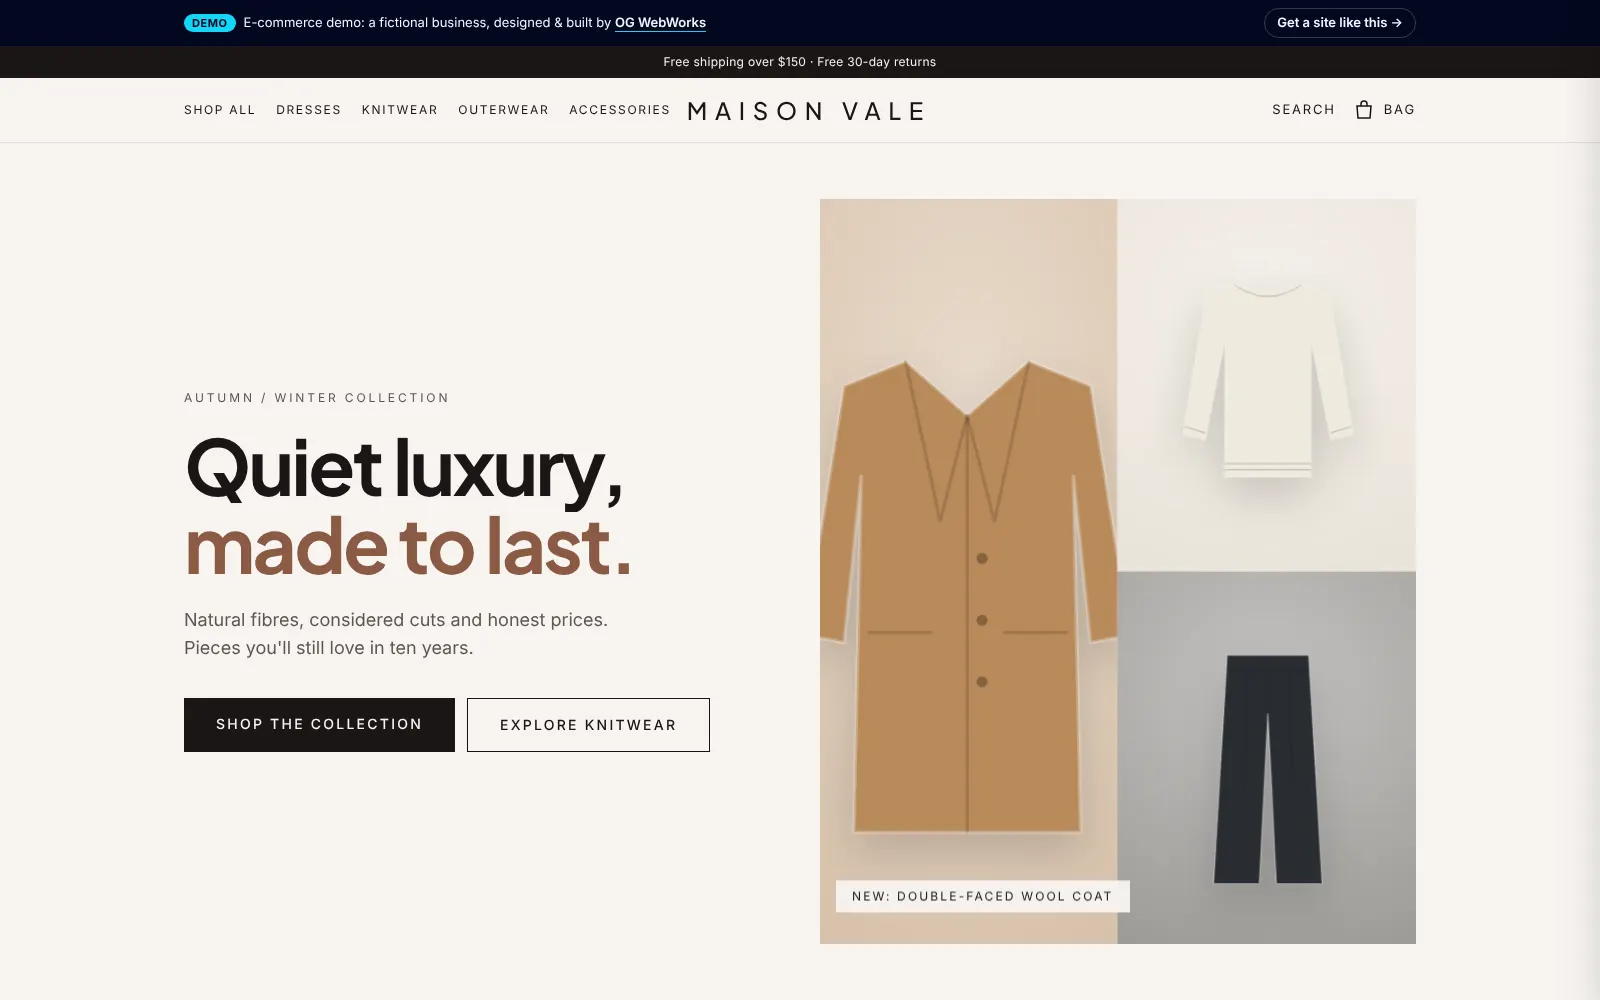
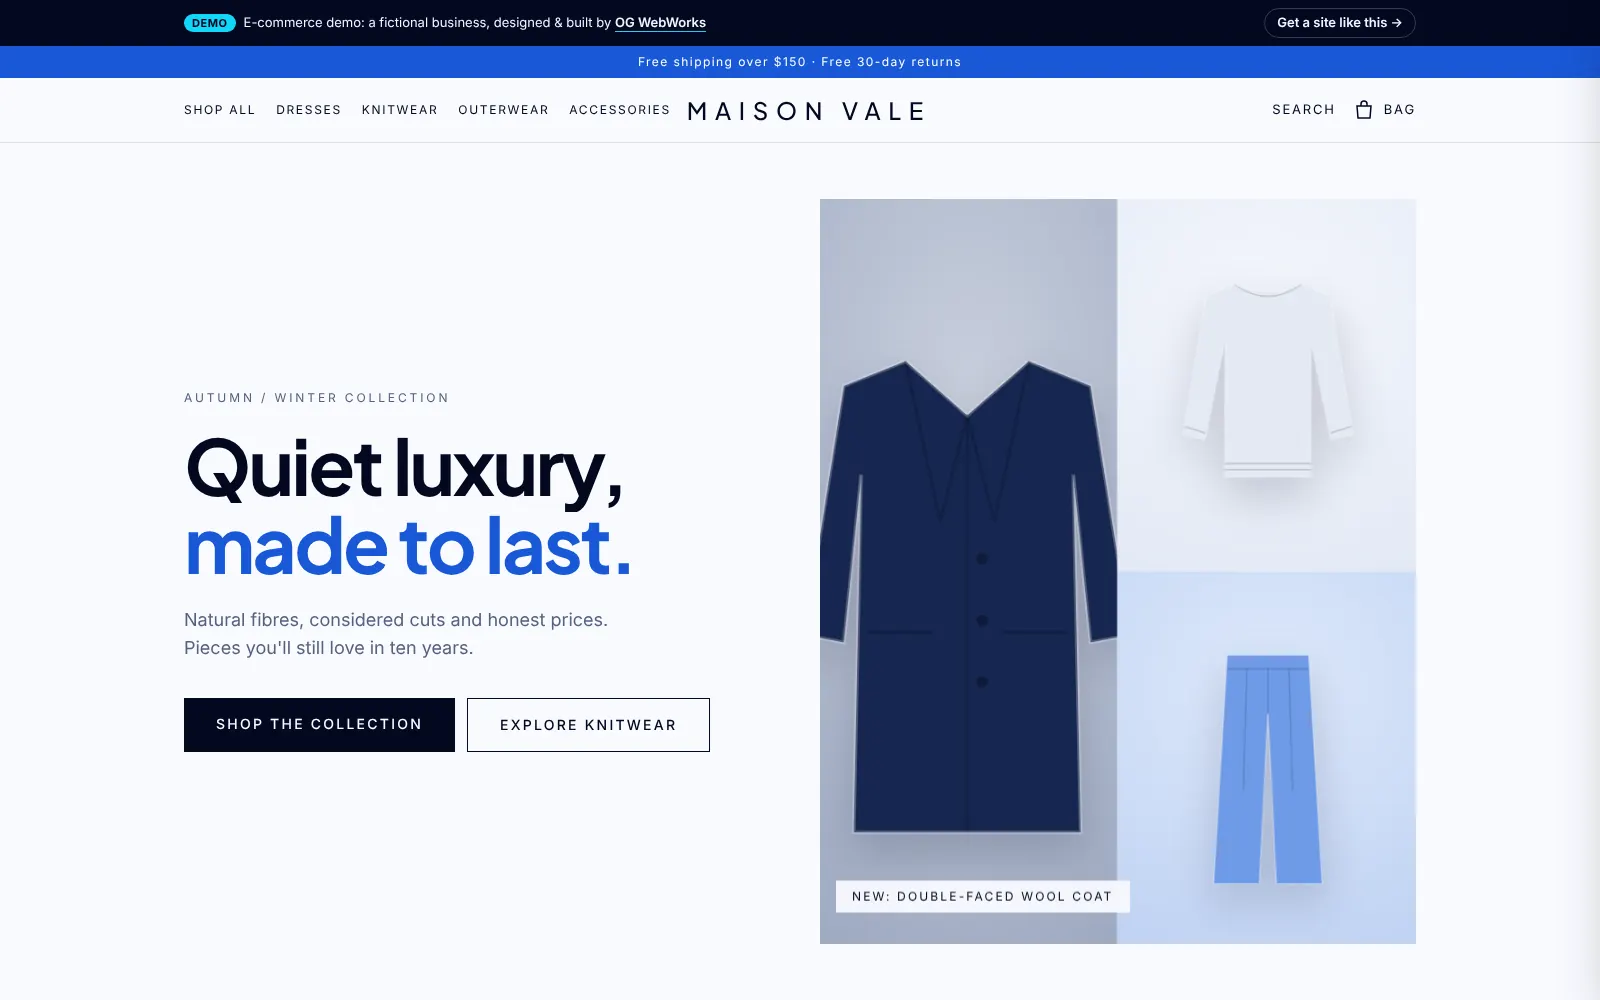
Bring tree and fashion demos onto the OG WebWorks palette
Each demo is a distinct expression of the same brand palette:
- Tree services: light ice (#f5f8ff) with deep royal navy bands
  (#0a1f5c), cyan CTAs (#12d6f8), accent blue #1a52c4; logo, gradient
  mesh and small-text colours updated; floating leaves desktop-only
- Fashion: cool white / midnight monochrome with cobalt #1958d6 as the
  single accent (sale, headline, cobalt shipping strip); garment palette
  moved to Cloud/Midnight/Cobalt/Slate/Ivory/Navy/Ice/Steel/Sky; cool
  studio backdrop for product art; cart storage key bumped
- Restaurant unchanged (dark navy)
Contrast checked (>= 4.5:1). Layout scan clean; checkout, estimate and
booking flows pass; accessibility 100; thumbnails regenerated.

Claude-Session: https://claude.ai/code/session_01QndBwt4KJykXdFvXCkmebg

diff --git a/src/app/demos/fashion/page.tsx b/src/app/demos/fashion/page.tsx
@@ -9,7 +9,7 @@ import { InView, Marquee, Parallax, Words } from "@/components/demos/motion";
 
 export const metadata = { title: { absolute: "Maison Vale: Fashion store demo | OG WebWorks" } };
 
-const catArt = { dresses: ["dress", "#a5583a"], tops: ["top", "#a9bccb"], knitwear: ["knit", "#b98a5a"], outerwear: ["coat", "#5f6348"], trousers: ["trousers", "#2a2d33"], accessories: ["bag", "#5b4033"] } as const;
+const catArt = { dresses: ["dress", "#1d4fd8"], tops: ["top", "#a1c1fa"], knitwear: ["knit", "#e3e9f3"], outerwear: ["coat", "#16264f"], trousers: ["trousers", "#2b3650"], accessories: ["bag", "#0d1530"] } as const;
 
 export default function FashionHome() {
   const imgs = productImages();
@@ -41,10 +41,10 @@ export default function FashionHome() {
             <img src={hero.src} alt={hero.alt} width={hero.w} height={hero.h} fetchPriority="high" className="h-full w-full object-cover" />
           ) : (
             <div className="dm-kenburns grid h-full grid-cols-2" aria-hidden="true">
-              <ProductArt art="coat" hex="#b98a5a" />
+              <ProductArt art="coat" hex="#16264f" />
               <div className="grid grid-rows-2">
-                <ProductArt art="knit" hex="#efe9de" />
-                <ProductArt art="trousers" hex="#2a2d33" />
+                <ProductArt art="knit" hex="#e3e9f3" />
+                <ProductArt art="trousers" hex="#6f9be8" />
               </div>
             </div>
           )}
@@ -109,15 +109,15 @@ export default function FashionHome() {
               <img src={editorial.src} alt={editorial.alt} width={editorial.w} height={editorial.h} loading="lazy" className="h-full w-full object-cover" />
             ) : (
               <div className="grid h-full grid-cols-3" aria-hidden="true">
-                <ProductArt art="bag" hex="#5b4033" />
-                <ProductArt art="dress" hex="#d9cbb4" />
-                <ProductArt art="top" hex="#8f9c84" />
+                <ProductArt art="bag" hex="#0d1530" />
+                <ProductArt art="dress" hex="#a1c1fa" />
+                <ProductArt art="top" hex="#1d4fd8" />
               </div>
             )}
           </Parallax>
           <div className="flex flex-col justify-center p-8 sm:p-14">
             <p className="text-xs uppercase tracking-[0.24em] text-mv-ivory/60">Our materials</p>
-            <h2 className="mt-4 font-mv text-4xl leading-tight sm:text-5xl">Linen from France. Wool from Italy. <span className="text-[#d9b8a6]">Nothing synthetic.</span></h2>
+            <h2 className="mt-4 font-mv text-4xl leading-tight sm:text-5xl">Linen from France. Wool from Italy. <span className="text-[#8fe9fb]">Nothing synthetic.</span></h2>
             <p className="mt-5 max-w-md text-mv-ivory/75">We work with six family-run mills and workshops, and publish the true cost of every piece. Fewer, better things.</p>
             <Link href={`${BASE}/shop`} className="mt-8 w-fit border-b border-mv-ivory pb-0.5 text-sm uppercase tracking-[0.14em]">Discover the collection</Link>
           </div>

diff --git a/src/app/demos/tree-services/page.tsx b/src/app/demos/tree-services/page.tsx
@@ -31,7 +31,7 @@ export default function TreeServicesDemo() {
       <div className="hidden bg-tree-forest text-sm text-tree-cream/85 md:block">
         <div className="mx-auto flex max-w-7xl items-center justify-between px-6 py-2">
           <p>Licensed &amp; insured · Certified arborists · Serving the Greater Metro Area since {brand.since}</p>
-          <p className="font-semibold text-[#ffc59a]">24/7 emergency storm service</p>
+          <p className="font-semibold text-[#8fe9fb]">24/7 emergency storm service</p>
         </div>
       </div>
       <TreeNav />
@@ -39,9 +39,9 @@ export default function TreeServicesDemo() {
       <main id="main" className="pb-20 lg:pb-0">
         {/* ---------- Hero ---------- */}
         <div className="relative isolate overflow-hidden">
-        <div className="absolute inset-0 -z-10 bg-[radial-gradient(60%_50%_at_85%_20%,rgba(63,110,53,0.22),transparent_70%),radial-gradient(40%_40%_at_10%_90%,rgba(242,145,58,0.18),transparent_70%)]" aria-hidden="true" />
+        <div className="absolute inset-0 -z-10 bg-[radial-gradient(60%_50%_at_85%_20%,rgba(29,109,255,0.16),transparent_70%),radial-gradient(40%_40%_at_10%_90%,rgba(18,214,248,0.16),transparent_70%)]" aria-hidden="true" />
         {[["8%", "18%", "7s", "0s"], ["46%", "8%", "9s", "-2s"], ["92%", "62%", "8s", "-4s"], ["4%", "78%", "10s", "-1s"]].map(([x, y, dur, d], i) => (
-          <svg key={i} viewBox="0 0 24 24" className="dm-float pointer-events-none absolute -z-10 h-8 w-8 text-tree-moss/40" style={{ left: x, top: y, "--dur": dur, "--d": d, "--rot": "25deg" } as React.CSSProperties} fill="currentColor" aria-hidden="true">
+          <svg key={i} viewBox="0 0 24 24" className="dm-float pointer-events-none absolute -z-10 hidden h-8 w-8 text-tree-moss/40 lg:block" style={{ left: x, top: y, "--dur": dur, "--d": d, "--rot": "25deg" } as React.CSSProperties} fill="currentColor" aria-hidden="true">
             <path d="M5 19c0-8 5-14 15-14 0 10-6 15-14 15Z" />
           </svg>
         ))}

diff --git a/src/components/demos/fashion/data.ts b/src/components/demos/fashion/data.ts
@@ -31,16 +31,17 @@ export const categories: { id: Category; label: string; blurb: string }[] = [
 ];
 
 const S = ["XS", "S", "M", "L", "XL"];
+// Cool, brand-aligned garment palette (navy / cobalt / ice / slate).
 const C = {
-  oat: { name: "Oat", hex: "#d9cbb4" },
-  ink: { name: "Ink", hex: "#2a2d33" },
-  clay: { name: "Clay", hex: "#a5583a" },
-  sage: { name: "Sage", hex: "#8f9c84" },
-  ivory: { name: "Ivory", hex: "#efe9de" },
-  cocoa: { name: "Cocoa", hex: "#5b4033" },
-  sky: { name: "Sky", hex: "#a9bccb" },
-  olive: { name: "Olive", hex: "#5f6348" },
-  camel: { name: "Camel", hex: "#b98a5a" },
+  oat: { name: "Cloud", hex: "#e3e9f3" },
+  ink: { name: "Midnight", hex: "#0d1530" },
+  clay: { name: "Cobalt", hex: "#1d4fd8" },
+  sage: { name: "Slate", hex: "#8a96aa" },
+  ivory: { name: "Ivory", hex: "#f1f3f7" },
+  cocoa: { name: "Navy", hex: "#16264f" },
+  sky: { name: "Ice", hex: "#a1c1fa" },
+  olive: { name: "Steel", hex: "#4b5872" },
+  camel: { name: "Sky", hex: "#6f9be8" },
 };
 
 export const products: Product[] = [

diff --git a/src/components/demos/tree/TreeNav.tsx b/src/components/demos/tree/TreeNav.tsx
@@ -15,9 +15,9 @@ export function TreeLogo({ light = false }: { light?: boolean }) {
   return (
     <span className="inline-flex items-center gap-2.5">
       <svg viewBox="0 0 32 32" className="h-9 w-9" aria-hidden="true">
-        <circle cx="16" cy="16" r="16" fill={light ? "#f7f3ea" : "#1f3d2b"} />
-        <path d="M16 6c-4.5 0-7.5 3.4-7.5 7.2 0 2.3 1.1 4.1 2.8 5.2h9.4c1.7-1.1 2.8-2.9 2.8-5.2C23.5 9.4 20.5 6 16 6Z" fill="#3f6e35" />
-        <path d="M14.6 18.2h2.8V26h-2.8z" fill={light ? "#1f3d2b" : "#f2913a"} />
+        <circle cx="16" cy="16" r="16" fill={light ? "#f5f8ff" : "#0a1f5c"} />
+        <path d="M16 6c-4.5 0-7.5 3.4-7.5 7.2 0 2.3 1.1 4.1 2.8 5.2h9.4c1.7-1.1 2.8-2.9 2.8-5.2C23.5 9.4 20.5 6 16 6Z" fill="#1d6dff" />
+        <path d="M14.6 18.2h2.8V26h-2.8z" fill={light ? "#0a1f5c" : "#12d6f8"} />
       </svg>
       <span className={`font-tree text-xl font-semibold leading-none tracking-tight ${light ? "text-tree-cream" : "text-tree-forest"}`}>
         {brand.name}

diff --git a/src/components/demos/fashion/ProductArt.tsx b/src/components/demos/fashion/ProductArt.tsx
@@ -42,9 +42,9 @@ export default function ProductArt({ art, hex, className = "" }: { art: Art; hex
   return (
     <div
       className={`relative grid h-full w-full place-items-center overflow-hidden ${className}`}
-      style={{ background: `radial-gradient(120% 90% at 50% 30%, color-mix(in oklab, ${hex} 22%, #f6f3ee), color-mix(in oklab, ${hex} 38%, #e4ddd2))` }}
+      style={{ background: `radial-gradient(120% 90% at 50% 30%, color-mix(in oklab, ${hex} 18%, #f8faff), color-mix(in oklab, ${hex} 32%, #dfe7f5))` }}
     >
-      <svg viewBox="0 0 400 500" className="h-[82%] w-auto drop-shadow-[0_18px_22px_rgba(20,20,20,0.18)]" style={{ color: hex }} aria-hidden="true">
+      <svg viewBox="0 0 400 500" className="h-[82%] w-auto drop-shadow-[0_18px_22px_rgba(3,8,32,0.18)]" style={{ color: hex }} aria-hidden="true">
         <path d={s.body} fill={hex} />
         <g fill="none" stroke="rgba(0,0,0,0.14)" strokeWidth="2.5" strokeLinecap="round">
           {s.lines.map((d) => (

diff --git a/src/app/globals.css b/src/app/globals.css
@@ -21,20 +21,20 @@
   --color-coral: #ff5c39; /* errors only */
 
   /* Demo: tree services */
-  --color-tree-forest: #145a3c;
-  --color-tree-moss: #256b47;
-  --color-tree-cream: #f4f7f2;
-  --color-tree-sand: #e3ece2;
-  --color-tree-ink: #0f2a1f;
-  --color-tree-mute: #4a5f53;
-  --color-tree-orange: #ff8a3d;
+  --color-tree-forest: #0a1f5c;
+  --color-tree-moss: #1a52c4;
+  --color-tree-cream: #f5f8ff;
+  --color-tree-sand: #e5edfb;
+  --color-tree-ink: #071134;
+  --color-tree-mute: #4b5a7d;
+  --color-tree-orange: #12d6f8;
 
   /* Demo: fashion store */
-  --color-mv-ivory: #f7f4f1;
-  --color-mv-sand: #ece6e1;
-  --color-mv-ink: #1a1614;
-  --color-mv-mute: #5f5650;
-  --color-mv-clay: #8a5a44;
+  --color-mv-ivory: #f8faff;
+  --color-mv-sand: #eaf0fb;
+  --color-mv-ink: #030820;
+  --color-mv-mute: #55627f;
+  --color-mv-clay: #1958d6;
 
   /* Demo: restaurant */
   --color-es-char: #030820;

diff --git a/src/components/demos/fashion/ProductBuy.tsx b/src/components/demos/fashion/ProductBuy.tsx
@@ -137,7 +137,7 @@ export default function ProductBuy({ p, src }: { p: Product; src?: string | null
             aria-label={saved ? "Remove from wishlist" : "Add to wishlist"}
             className="grid w-14 place-items-center border border-mv-ink/20 transition hover:border-mv-ink"
           >
-            <svg viewBox="0 0 24 24" className="h-5 w-5" fill={saved ? "#9c4a2f" : "none"} stroke={saved ? "#9c4a2f" : "currentColor"} strokeWidth="1.5" aria-hidden="true">
+            <svg viewBox="0 0 24 24" className="h-5 w-5" fill={saved ? "#1958d6" : "none"} stroke={saved ? "#1958d6" : "currentColor"} strokeWidth="1.5" aria-hidden="true">
               <path d="M12 20s-7-4.4-7-10a4 4 0 0 1 7-2.6A4 4 0 0 1 19 10c0 5.6-7 10-7 10Z" />
             </svg>
           </button>

diff --git a/src/components/demos/fashion/Shell.tsx b/src/components/demos/fashion/Shell.tsx
@@ -24,7 +24,7 @@ export default function Shell() {
 
   return (
     <>
-      <div className="bg-mv-ink py-2 text-center text-xs tracking-wide text-mv-ivory">
+      <div className="bg-mv-clay py-2 text-center text-xs tracking-[0.12em] text-white">
         Free shipping over {money(store.freeShipping)} · Free 30-day returns
       </div>
       <header className="sticky top-0 z-40 border-b border-mv-ink/10 bg-mv-ivory/90 backdrop-blur-md">

diff --git a/src/components/demos/fashion/cart.ts b/src/components/demos/fashion/cart.ts
@@ -6,7 +6,7 @@ import { getProduct, store } from "./data";
 export type Line = { slug: string; color: string; size: string; qty: number };
 type State = { lines: Line[]; open: boolean };
 
-const KEY = "mv-demo-cart";
+const KEY = "mv-demo-cart-v2";
 const EMPTY: State = { lines: [], open: false };
 let state: State | null = null;
 const listeners = new Set<() => void>();
